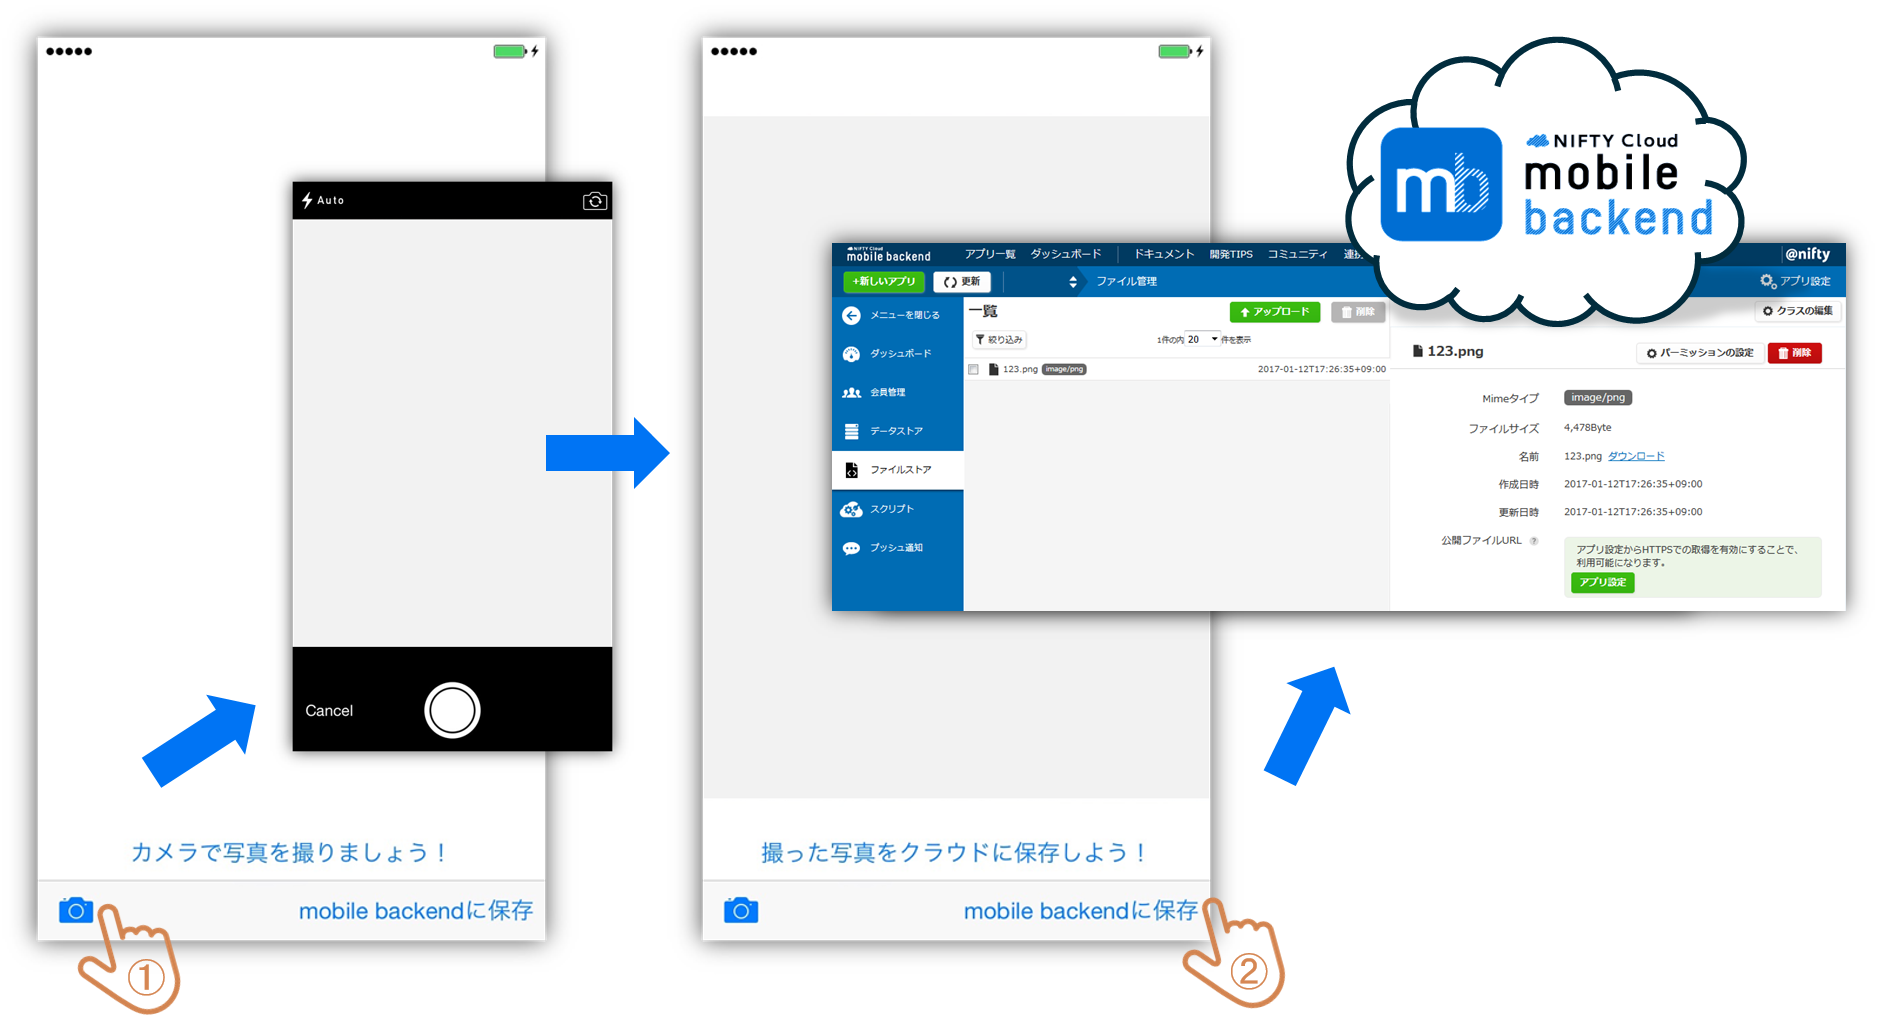
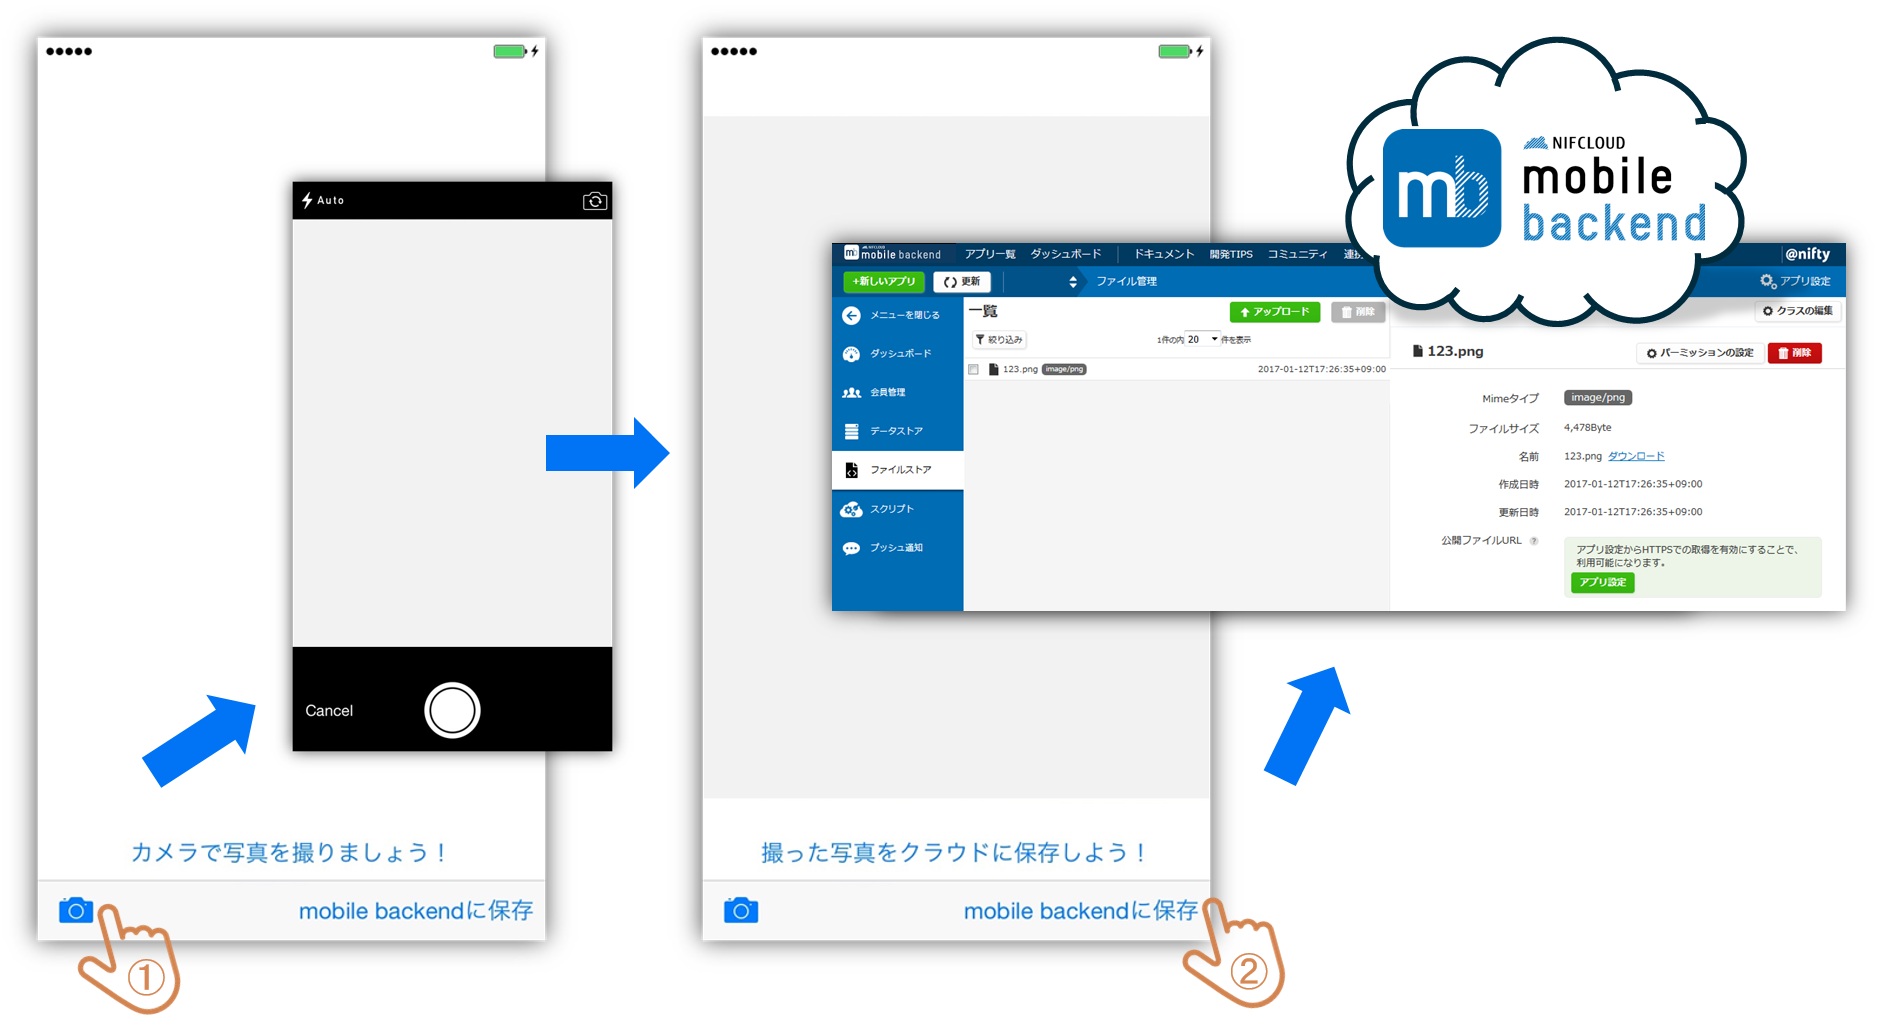
Update readme and copyright

Changed region(s): [[0.7103, 0.1238, 0.9265, 0.2476], [0.4324, 0.2166, 0.4941, 0.2785]]

diff --git a/SwiftFileApp/AppDelegate.swift b/SwiftFileApp/AppDelegate.swift
@@ -3,7 +3,7 @@
 //  SwiftFileApp
 //
 //  Created by Natsumo Ikeda on 2016/05/30.
-//  Copyright 2017 FUJITSU CLOUD TECHNOLOGIES LIMITED All Rights Reserved.
+//  Copyright 2019 FUJITSU CLOUD TECHNOLOGIES LIMITED All Rights Reserved.
 //
 
 import UIKit

diff --git a/SwiftFileApp/ViewController.swift b/SwiftFileApp/ViewController.swift
@@ -3,7 +3,7 @@
 //  SwiftFileApp
 //
 //  Created by Natsumo Ikeda on 2016/05/30.
-//  Copyright 2017 FUJITSU CLOUD TECHNOLOGIES LIMITED All Rights Reserved.
+//  Copyright 2019 FUJITSU CLOUD TECHNOLOGIES LIMITED All Rights Reserved.
 //
 
 import UIKit

diff --git a/README.md b/README.md
@@ -2,19 +2,19 @@
 ![画像1](/readme-img/001.png)
 
 ## 概要
-* [ニフティクラウドmobile backend](http://mb.cloud.nifty.com/)の『ファイルストア機能』を利用して、「撮った写真をクラウドに保存する」内容を実装したサンプルプロジェクトです
-* 簡単な操作ですぐに [ニフティクラウドmobile backend](http://mb.cloud.nifty.com/)の機能を体験いただけます★☆
+* [ニフクラmobile backend](https://mbaas.nifcloud.com/)の『ファイルストア機能』を利用して、「撮った写真をクラウドに保存する」内容を実装したサンプルプロジェクトです
+* 簡単な操作ですぐに [ニフクラmobile backend](https://mbaas.nifcloud.com/)の機能を体験いただけます★☆
 
-## ニフティクラウドmobile backendって何？？
+## ニフクラmobile backendって何？？
 スマートフォンアプリのバックエンド機能（プッシュ通知・データストア・会員管理・ファイルストア・SNS連携・位置情報検索・スクリプト）が**開発不要**、しかも基本**無料**(注1)で使えるクラウドサービス！
 
-注1：詳しくは[こちら](http://mb.cloud.nifty.com/price.htm)をご覧ください
+注1：詳しくは[こちら](https://mbaas.nifcloud.com/function.htm)をご覧ください
 
 ![画像2](/readme-img/002.png)
 
 ## 動作環境
 * Mac OS X 10.10(Yosemite)
-* Xcode ver. 7.2.1
+* Xcode ver.10 以上
 * iPhone6 ver. 8.2
  * このサンプルアプリは、端末のカメラを使用するため、実機ビルドが必要です
 
@@ -22,14 +22,14 @@
 
 
 ## 手順
-### 1. [ニフティクラウドmobile backend](http://mb.cloud.nifty.com/)の会員登録とログイン→アプリ作成
+### 1. [ニフクラmobile backend](https://mbaas.nifcloud.com/)の会員登録とログイン→アプリ作成
 
 * 上記リンクから会員登録（無料）をします。登録ができたらログインをすると下図のように「アプリの新規作成」画面が出るのでアプリを作成します
 
 ![画像3](/readme-img/003.png)
 
 * アプリ作成されると下図のような画面になります
-* この２種類のAPIキー（アプリケーションキーとクライアントキー）はXcodeで作成するiOSアプリに[ニフティクラウドmobile backend](http://mb.cloud.nifty.com/)を紐付けるために使用します
+* この２種類のAPIキー（アプリケーションキーとクライアントキー）はXcodeで作成するiOSアプリに[ニフクラmobile backend](https://mbaas.nifcloud.com/)を紐付けるために使用します
 
 ![画像4](/readme-img/004.png)
 
@@ -39,7 +39,7 @@
 
 #### 2. GitHubからサンプルプロジェクトのダウンロード
 * 下記リンクをクリックしてプロジェクトをダウンロードをMacにダウンロードします
- * __[SwiftFileApp](https://github.com/natsumo/SwiftFileApp/archive/master.zip)__
+ * __[SwiftFileApp](https://github.com/NIFCLOUD-mbaas/SwiftFileApp/archive/master.zip)__
 
 ### 3. Xcodeでアプリを起動
 * ダウンロードしたフォルダを開き、「SwiftFileApp.xcworkspace」をダブルクリックしてXcode開きます(白い方です)
@@ -54,7 +54,7 @@
 ### 4. APIキーの設定
 
 * `AppDelegate.swift`を編集します
-* 先程[ニフティクラウドmobile backend](http://mb.cloud.nifty.com/)のダッシュボード上で確認したAPIキーを貼り付けます
+* 先程[ニフクラmobile backend](https://mbaas.nifcloud.com/)のダッシュボード上で確認したAPIキーを貼り付けます
 
 ![画像07](/readme-img/007.png)
 
@@ -81,11 +81,11 @@
 * 写真に名前を付けます
 * 「OK」をタップすると写真がクラウドに保存されます
  * 保存に失敗した場合は画面にエラーコードが表示されます
- * 万が一エラーが発生した場合は、[こちら](http://mb.cloud.nifty.com/doc/current/rest/common/error.html)よりエラー内容を確認いただけます
+ * 万が一エラーが発生した場合は、[こちら](https://mbaas.nifcloud.com/doc/current/rest/common/error.html)よりエラー内容を確認いただけます
 
 -----
 
-* 保存に成功したら、[ニフティクラウドmobile backend](http://mb.cloud.nifty.com/)のダッシュボードから「ファイルストア」を確認してみましょう！
+* 保存に成功したら、[ニフクラmobile backend](https://mbaas.nifcloud.com/)のダッシュボードから「ファイルストア」を確認してみましょう！
 
 ![画像12](/readme-img/012.png)
 
@@ -95,9 +95,7 @@
 サンプルプロジェクトに実装済みの内容のご紹介
 
 #### SDKのインポートと初期設定
-* ニフティクラウドmobile backend の[ドキュメント（クイックスタート）](http://mb.cloud.nifty.com/doc/current/introduction/quickstart_ios.html)をSwift版に書き換えたドキュメントをご用意していますので、ご活用ください
- * [SwiftでmBaaSを始めよう！(＜CocoaPods＞でuse_framewoks!を有効にした方法)](http://qiita.com/natsumo/items/57d3a4d9be16b0490965)
- * [＜CocoaPods＞SwiftでmBaaSを始めよう！](http://qiita.com/natsumo/items/b2d18d87d57300c8d81c)
+* ニフクラmobile backend の[ドキュメント（クイックスタート）](https://mbaas.nifcloud.com/doc/current/introduction/quickstart_ios.html)をSwift版に書き換えたドキュメントをご用意していますので、ご活用ください
 
 #### ロジック
  * `Main.storyboard`でデザインを作成し、`ViewController.swift`にロジックを書いています
@@ -246,11 +244,11 @@ class ViewController: UIViewController, UINavigationControllerDelegate, UIImageP
 }
 ```
 
-* 【注意】[ニフティクラウドmobile backend](http://mb.cloud.nifty.com/)のBasicプラン（無料）では、1度にアップロードできるファイルの上限が５MBとなっています。iPhoneで撮影した写真はその制限を超えてしまうため、圧縮して保存を行っています。（有償プランの場合上限は異なります。詳しくは[こちら](http://mb.cloud.nifty.com/price.htm)）
+* 【注意】[ニフクラmobile backend](https://mbaas.nifcloud.com/)のBasicプラン（無料）では、1度にアップロードできるファイルの上限が５MBとなっています。iPhoneで撮影した写真はその制限を超えてしまうため、圧縮して保存を行っています。（有償プランの場合上限は異なります。詳しくは[こちら](https://mbaas.nifcloud.com/price.htm)）
 
 
 ## 参考
-* ニフティクラウドmobile backend の[ドキュメント（ファイルストア）](http://mb.cloud.nifty.com/doc/current/filestore/basic_usage_ios.html)をSwift版に書き換えたドキュメントをご用意していますので、ご活用ください
+* ニフクラmobile backend の[ドキュメント（ファイルストア）](https://mbaas.nifcloud.com/doc/current/filestore/basic_usage_ios.html)をSwift版に書き換えたドキュメントをご用意していますので、ご活用ください
  * [Swiftでファイルをサーバーに保存しよう！](http://qiita.com/natsumo/items/974247b3b27ec0880dc6)
 * 同じ内容の【Objective-C】版もご用意しています
  * https://github.com/natsumo/ObjcFileApp
